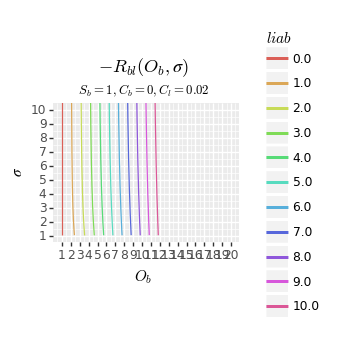
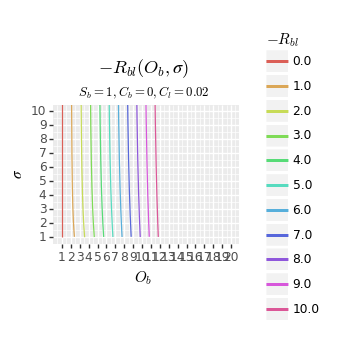
editing

diff --git a/images/matched-betting/plots.py b/images/matched-betting/plots.py
@@ -131,11 +131,14 @@ def save_both(plot, basename):
               width=2.4, height=1.8)
     print('%s - small' % (basename,))
 
-def my_plot(df, x, y, color=None):
+def my_plot(df, x, y, color=None, clab=None):
     aes = { 'color': color, 'group': color } if color else {}
+    if clab is None and color is not None:
+        clab = color.replace('pr', "'")
+
     return (gg.ggplot(df, gg.aes(x, y, **aes))
             + labs(x, y)
-            + (colors(color.replace('pr', "'")) if color else []))
+            + (colors(clab) if color else []))
 
 def main():
     mpl.rc('mathtext', fontset='cm')
@@ -224,7 +227,7 @@ def main():
               , 'Pq_σpr')
 
     df = concat_map(liab_Ob_Ol_free, 'liab', np.linspace(0, 10, 11))
-    save_both(my_plot(df, 'O_b', 'O_l', 'liab')
+    save_both(my_plot(df, 'O_b', 'O_l', 'liab', clab='-R_{bl}')
               + titles("-R_{bl}(O_b, O_l)", "S_b = 1, C_b = 0, C_l = 0.02")
               + limits((1,20), (1, 10))
               + gg.geom_line()
@@ -233,14 +236,14 @@ def main():
               , 'liab_Ob_Ol_free')
 
     df = concat_map(liab_Ob_Ol_free, 'liab', np.linspace(0, 10, 11))
-    save_both(my_plot(df, 'O_b', 'σ', 'liab')
+    save_both(my_plot(df, 'O_b', 'σ', 'liab', clab='-R_{bl}')
               + titles("-R_{bl}(O_b, σ)", "S_b = 1, C_b = 0, C_l = 0.02")
               + limits((1,20), (1, 10))
               + gg.geom_line()
               , 'liab_Ob_σ_free')
 
     df = concat_map(liab_Ob_Ol_qual, 'liab', np.linspace(0, 10, 11))
-    save_both(my_plot(df, 'O_b', 'O_l', 'liab')
+    save_both(my_plot(df, 'O_b', 'O_l', 'liab', clab='-R_{bl}')
               + titles("-R_{bl}(O_b, O_l)", "S_b = 1, C_b = 0, C_l = 0.02")
               + limits((1,20), (1, 10))
               + gg.geom_line()
@@ -249,7 +252,7 @@ def main():
               , 'liab_Ob_Ol_qual')
 
     df = concat_map(liab_Ob_Ol_qual, 'liab', np.linspace(0, 10, 11))
-    save_both(my_plot(df, 'O_b', 'σ', 'liab')
+    save_both(my_plot(df, 'O_b', 'σ', 'liab', clab='-R_{bl}')
               + titles("-R_{bl}(O_b, σ)", "S_b = 1, C_b = 0, C_l = 0.02")
               + limits((1,20), (1, 10))
               + gg.geom_line()

diff --git a/drafts/matched-betting.md b/drafts/matched-betting.md
@@ -8,7 +8,7 @@ This post isn't advice about how to get into matched betting. That market is pro
 
 (Um, but after that I feel obliged to give at least *some* safety information. So here goes: if you're not a UK citizen currently in the UK, this may be a bad idea. Don't use credit cards to deposit funds; it seems they interpret that as a cash transaction and charge fees. Start small; that way there's less at risk in case you do something silly like use a credit card to deposit funds. Probably don't expect to earn lots of money this way, either in total or per-hour.)
 
-Instead, I want to go into the math behind it, in more depth than I've seen in other places. None of this math is complicated, but some of it is useful, and I haven't seen anyone do it before. (I even deliberately went looking.)
+Instead, I want to go into the math behind it, in more depth than I've seen in other places. None of this math is complicated, but some of it is useful, and I haven't found it anywhere else. (I even deliberately went looking.)
 
 ### A simple example
 
